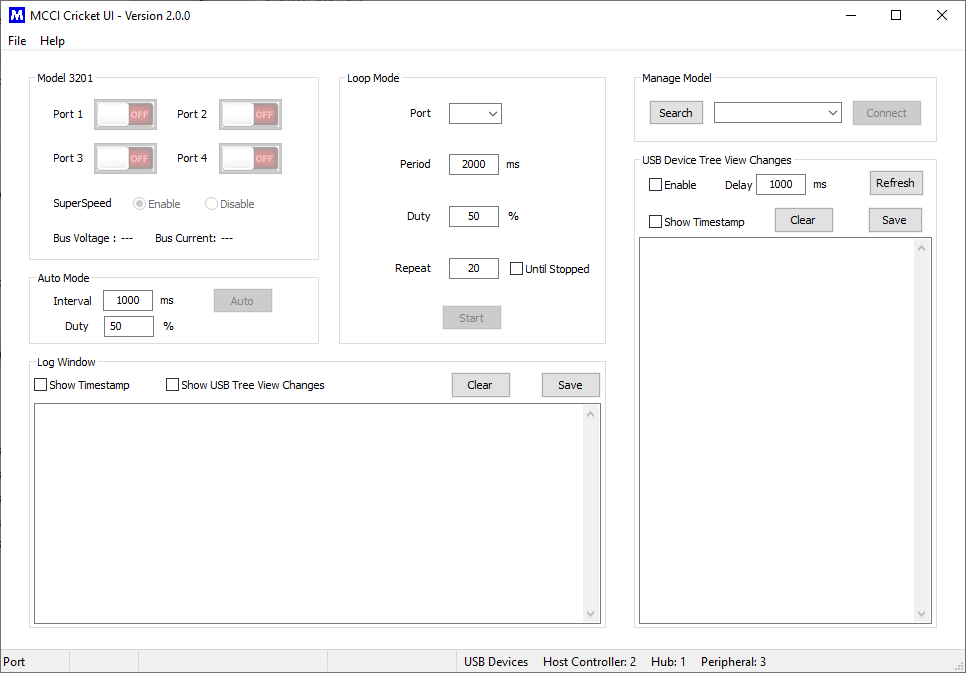
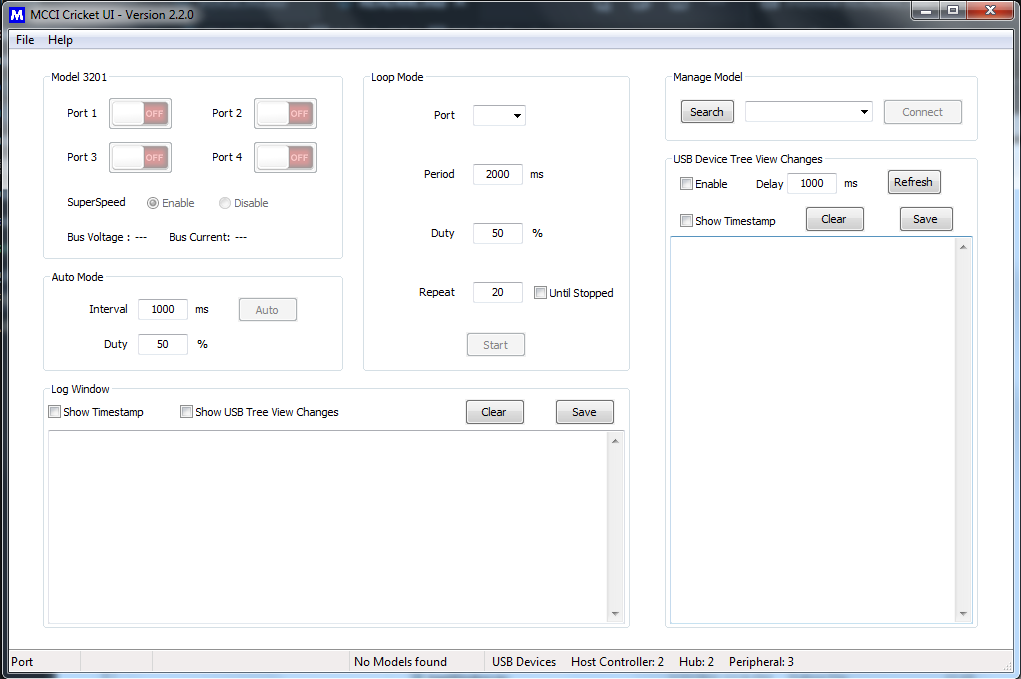
modified pep8 standard

diff --git a/src/uiGlobals.py b/src/uiGlobals.py
@@ -28,7 +28,7 @@ import wx
 # GLOBAL VARIABLES
 ##############################################################################
 APP_NAME = "Cricket"
-APP_VERSION = "2.0.0"
+APP_VERSION = "2.2.0"
 
 # StatusBar ID
 SB_PORT_ID   = 0

diff --git a/README.md b/README.md
@@ -77,6 +77,33 @@ Note:
 * If the installation of wxpython is not success, perform `sudo apt-get install build-essential libgtk-3-dev`
 * Some times the installation of wxpython takes longer time (>30 minutes).
 
+<strong>On RaspberryPI:</strong>
+
+Development environment
+
+* Raspberry Pi OS - aarch64 in Ubuntu 20.04 bit
+* Python - 3.6.9
+* wxgtk-4.0
+* pyserial - 3.5
+* pyusb - 1.1.1
+* libusb - 1.0.23b7
+* libusb1 - 1.9
+* pyinstaller - 4.2
+
+```shell
+sudo add-apt-repository ppa:swt-techie/wxpython4
+sudo apt-get update
+sudo apt-get install python3-wxgtk4.0
+sudo pip3 install pyserial
+sudo pip3 install pyusb
+sudo pip3 install libusb
+sudo pip3 install libusb1
+sudo pip3 install pyinstaller
+```
+
+Note:
+* If the installation of wxpython is not success, perform `sudo apt-get install build-essential libgtk-3-dev`
+
 ## Interpret python source
 
 Move to the directory `destdir/src/`
@@ -89,6 +116,11 @@ python main.py
 ```
 
 For Linux and Mac
+```shell
+python3 main.py
+```
+
+For RaspberryPi
 ```shell
 python3 main.py
 ```

diff --git a/VERSION.md b/VERSION.md
@@ -1,1 +1,1 @@
-2.0.0
+2.2.0
